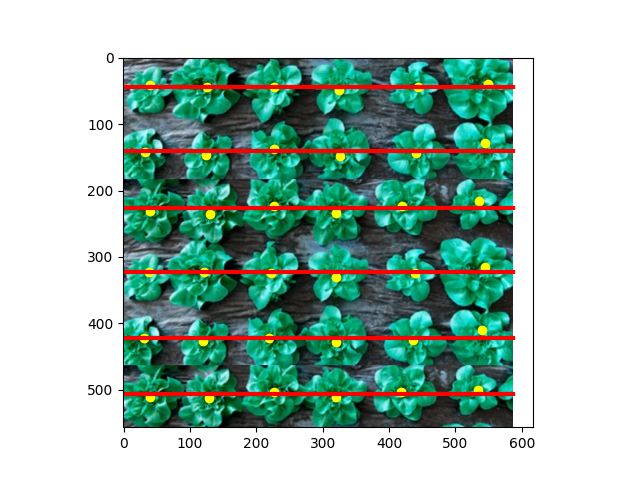
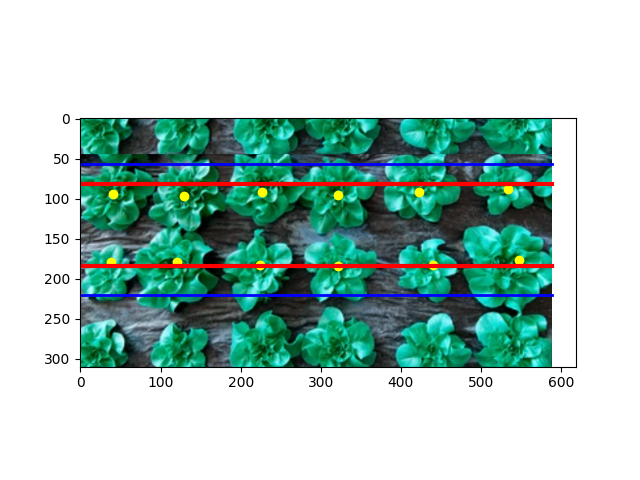
major AI upgrade with signal processing

diff --git a/Edge_Compute/prototype_for_plant_finder.py b/Edge_Compute/prototype_for_plant_finder.py
@@ -1,20 +1,28 @@
 
+from signal import signal
 import time
+import json
+from turtle import distance
 from s_clustering_utils import check_cluster_multitudes,find_elbow,find_centroids,plot_cluster_graph,plot_image_with_centers_lines,find_lines
-from image_utils import detect_edges,edge_image_to_edge_points_np_list
+from image_utils import detect_edges,edge_image_to_edge_points_np_list,detect_thres,detect_cutt_offs
 
-path="Edge_Compute/images/"
-out_path="Edge_Compute/diagnostics/"
-filename='Capture5.png' #set image to test
+path="images/"
+out_path="diagnostics/"
+filename='Capture1.png' #set image to test
 
-def process_image(filename,path,out_path,diagnostics_mode='none'):
+def process_image(filename,path,out_path,config,diagnostics_mode='none'):
+    #print(config)
+    column_multitude=config['columns']
 
     t1=time.time()
+    _,weight_image,_=detect_thres(filename,path,out_path,thres1=145,thres2=255) #takes image and 2 thresholding parameters for the edge filter, gives back the original image and the filtered image as cv2 img objects (basically numpy arrays, original image has color, filtered is B&W (no  rgb))
+    y1,y2,lines_start_end,signal=detect_cutt_offs(weight_image,diagnostics_mode)
     img,edge_image_good,edge_image_simple=detect_edges(filename,path,out_path,thres1=150,thres2=220) #takes image and 2 thresholding parameters for the edge filter, gives back the original image and the filtered image as cv2 img objects (basically numpy arrays, original image has color, filtered is B&W (no  rgb))
+    lines=int(len(lines_start_end)/2)
     t2=time.time()
-    edge_point_list_good=edge_image_to_edge_points_np_list(edge_image_good)
-    edge_point_list_simple=edge_image_to_edge_points_np_list(edge_image_simple) #takes filtered image and returns a list of all the white pixels (so any coordinate where part of an edge is present)
-    test_cases=range(2,40) #set the possible cases for plant multitude (the algorithm will check for each number and find the best match, use as smaller range as possible and preferably weighted to the left to improve performance)
+    edge_point_list_good=edge_image_to_edge_points_np_list(edge_image_good,y1,y2)
+    edge_point_list_simple=edge_image_to_edge_points_np_list(edge_image_simple,y1,y2) #takes filtered image and returns a list of all the white pixels (so any coordinate where part of an edge is present)
+    test_cases=range((lines-1)*column_multitude,(lines+1)*column_multitude) #set the possible cases for plant multitude (the algorithm will check for each number and find the best match, use as smaller range as possible and preferably weighted to the left to improve performance)
     t3=time.time()
     wcss=check_cluster_multitudes(test_cases,edge_point_list_simple) #gets error list from trying all possible test cases
     if diagnostics_mode=='full' or 'elbow' in diagnostics_mode:
@@ -24,11 +32,24 @@ def process_image(filename,path,out_path,diagnostics_mode='none'):
     t5=time.time()
     centers_x,centers_y,centers_ids_for_each_index_of_input_list=find_centroids(edge_point_list_good,n) #gets coordiantes of plant centers after running the algorithm once again for the correct n (could have stored data from the test cases run but one run doesn't cost as much, also this time we use more detail in the execution for optimal results and not just error estimation)
     t6=time.time()
-    test_cases=range(1,14)
-    lines_x,lines_y,labels=find_lines(test_cases,centers_x,centers_y) #lines_x currently returns 0 as it is not needed #labels is the correponding line for each center in input list
+    #test_cases=range(1,6)
+    #lines_x,lines_y,labels=find_lines(test_cases,centers_x,centers_y) #lines_x currently returns 0 as it is not needed #labels is the correponding line for each center in input list
     #print(_)
+    lines_y=[]
+    lines_x=[]
+    labels=[]
+    lines=[]
+    #print(lines_start_end)
+    for x in range(0, len(lines_start_end)-1, 2):
+        lines.append([lines_start_end[x],lines_start_end[x+1]])
+    #print(lines)
+    for i,line in enumerate(lines):
+        lines_y.append((line[0]+line[1])/2)
+        #print(lines_y[-1])
+        labels.append(i)
+
     if diagnostics_mode=='full' or 'final' in diagnostics_mode:
-        plot_image_with_centers_lines(img,path,out_path,centers_x,centers_y,lines_x,lines_y) #show image
+        plot_image_with_centers_lines(img,path,out_path,centers_x,centers_y,lines_x,lines_y,y1,y2) #show image
     if diagnostics_mode=='full' or 'time' in diagnostics_mode:
         print('time for edge filter:              ',t2-t1)
         print('time to find errors for test cases:',t4-t3)
@@ -59,7 +80,12 @@ def process_image(filename,path,out_path,diagnostics_mode='none'):
     for i in range(len(lines_y)):
         clustered_centers[i]=[]
     for i,center in enumerate(centers):
-        clustered_centers[labels[i]].append(list(center))
+        height=center[0]
+        distances=[]
+        for line in lines_y:
+            distances.append(abs(line-height))
+        my_index=distances.index(min(distances))
+        clustered_centers[my_index].append(list(center))
 
 
     #make dict with lines and clusters ordered by line y dimension of line group  type: {123.003 : [[523.02,125.01] , ] ,}
@@ -69,6 +95,7 @@ def process_image(filename,path,out_path,diagnostics_mode='none'):
         for center in clustered_centers[line]:
             heights.append(center[0])
         lines[sum(heights)/len(heights)]=clustered_centers[line] #keep in mind that the average y might slightly differ from what kmeans returned as center
+    print(lines)
 
 
 
@@ -77,5 +104,7 @@ def process_image(filename,path,out_path,diagnostics_mode='none'):
     #print(lines)
 
 
-    return sorted(list(lines.keys())),lines,centroids #returns the sorted y coordinate of lines and the lines and centroids dicts 
-#process_image(filename,path,out_path,"full")
+    return sorted(list(lines.keys())),lines,centroids,signal #returns the sorted y coordinate of lines and the lines and centroids dicts 
+f = open('greenhouse_config.json')
+config_dict = json.load(f)
+#process_image(filename,path,out_path,config_dict,"final")

diff --git a/Edge_Compute/image_utils.py b/Edge_Compute/image_utils.py
@@ -1,11 +1,94 @@
 import cv2
 import numpy as np
+from matplotlib import pyplot as plt
 
-def edge_image_to_edge_points_np_list(edge_image):
+
+def detect_cutt_offs(weight_image,diagnostics_mode):
+    cut_factor=1.05
+    signal=[]
+    for line in weight_image[0:-1]:
+        signal.append(sum(line))
+
+    high_noise_thres=int(40*len(signal)/1000)
+    #print(high_noise_thres)
+    #plt.plot(signal)
+    #plt.title('vertical scan signal')
+    #plt.xlabel('line')
+    #plt.ylabel('intensity')
+    #plt.show()
+
+        ## Compute Fourier Transform
+    n = len(signal)
+    
+    fhat = np.fft.fft(signal, n) #computes the fft
+    
+    #plt.plot(fhat)
+    #plt.title('vertical scan signal FFT')
+    #plt.xlabel('line')
+    #plt.ylabel('intensity')
+    #plt.show()
+
+
+    fhat_clean = []
+    for i,freq in enumerate(fhat):
+        if i<=high_noise_thres:
+            fhat_clean.append(freq)
+        else:
+            fhat_clean.append(0)
+
+
+    signal_filtered = np.fft.ifft(fhat_clean) #inverse fourier transform
+    signal_filtered=abs(signal_filtered)
+    plant_edge=cut_factor*(min(signal_filtered)+max(signal_filtered))/2
+    if "full" in diagnostics_mode or "sig" in diagnostics_mode:
+        plt.plot(signal_filtered)
+        plt.title('vertical scan signal filtered')
+        plt.xlabel('line')
+        plt.ylabel('intensity')
+        p1 = [0, len(signal_filtered)]
+        p2 = [max(signal_filtered),max(signal_filtered)]
+        plt.plot(p1, p2, color="red", linewidth=3)
+        p1 = [0, len(signal_filtered)]
+        p2 = [min(signal_filtered),min(signal_filtered)]
+        plt.plot(p1, p2, color="red", linewidth=3)
+        p1 = [0, len(signal_filtered)]
+        p2 = [plant_edge,plant_edge]
+        plt.plot(p1, p2, color="red", linewidth=3)
+        plt.show()
+        #plt.wa
+        
+    
+    norm=np.array(signal_filtered)
+    norm.fill(plant_edge)
+    normalized_signal=np.array(signal_filtered)-norm
+    #plt.plot(normalized_signal)
+    #plt.title('vertical scan signal filtered and normalized')
+    #plt.xlabel('line')
+    #plt.ylabel('intensity')
+    #plt.show()
+
+    #existance=np.sign(normalized_signal)
+    zero_crossings = list(np.where(np.diff(np.sign(normalized_signal)))[0])
+    diffs=np.diff(normalized_signal)
+    #print(zero_crossings)
+    if diffs[zero_crossings[0]]>0:
+        pass
+    else:
+        zero_crossings=zero_crossings[1:]
+    if diffs[zero_crossings[-1]]<0:
+        pass 
+    else:
+        zero_crossings=zero_crossings[:-1]
+        
+    y1=zero_crossings[0]
+    y2=zero_crossings[-1]
+    return y1,y2,zero_crossings,signal_filtered
+
+def edge_image_to_edge_points_np_list(edge_image,y1,y2):
     edge_point_list=[]
     for i,row in enumerate(edge_image):
         for j,cell in enumerate(row):
-            if int(cell)>=128:
+            if int(cell)>=128 and i>=y1 and i<=y2:
                 edge_point_list.append([i,j])
 
     edge_point_list=np.array(edge_point_list)
@@ -33,10 +116,35 @@ def detect_edges(filename,path,out_path, thres1=150,thres2=220):
     cv2.destroyAllWindows() 
     return img,edge_image,edge_image_simple
 
+
+def detect_thres(filename,path,out_path, thres1=175,thres2=255): 
+    # Read the original image
+    img = cv2.imread(path+filename) 
+    
+    image_g = img[:,:,1]  #take green
+    image_b = img[:,:,0] #take blue
+    image_r = img[:,:,2] #take red
+    image_r.fill(0)
+    image=cv2.merge((image_r,image_g,image_b))
+    #print(image)
+    
+    ret,image = cv2.threshold(img,thres1,thres2,cv2.THRESH_BINARY)
+    image = cv2.cvtColor(image, cv2.COLOR_BGR2GRAY) #do grayscale
+    
+
+    #experiment
+    image_simple=simplify_image(image)
+    #img=simplify_image(img)
+    # Save filtered result
+    cv2.imwrite(out_path+'thresholding_result.png', image)
+    cv2.destroyAllWindows() 
+    return img,image,image_simple
+
 def simplify_image(input_image):
-    standard_length=450 #increase if results not right amount of plants, decrease for performance
+    standard_length=589 #increase if results not right amount of plants, decrease for performance
     dimensions = input_image.shape
     #print(dimensions)
     ratio=dimensions[0]/dimensions[1]
     
-    return cv2.resize(input_image, dsize=(standard_length,int(ratio*standard_length)), interpolation=cv2.INTER_CUBIC)
+    #return cv2.resize(input_image, dsize=(standard_length,int(ratio*standard_length)), interpolation=cv2.INTER_CUBIC) ignore untill fix y1,y2 discrepency when dimensions change
+    return input_image

diff --git a/Edge_Compute/s_clustering_utils.py b/Edge_Compute/s_clustering_utils.py
@@ -8,7 +8,7 @@ def check_cluster_multitudes(test_cases,edge_point_list):
     #print(edge_point_list)
     wcss = []
     for i in test_cases:
-        kmeans = KMeans(n_clusters=i, init='k-means++', max_iter=60, n_init=6, random_state=0)  #increase max_iter and n_init for more accurate error results for elbow graph and elbow finding, decrease for faster 'find errors for test cases' time
+        kmeans = KMeans(n_clusters=i, init='k-means++', max_iter=70, n_init=4, random_state=0)  #increase max_iter and n_init for more accurate error results for elbow graph and elbow finding, decrease for faster 'find errors for test cases' time
         #print(edge_point_list)
         kmeans.fit(edge_point_list)
         wcss.append(kmeans.inertia_)
@@ -34,7 +34,7 @@ def find_elbow(wcss,test_cases):
     return n
 
 def find_centroids(edge_point_list,n):
-    kmeans = KMeans(n_clusters=n, init='k-means++', max_iter=80, n_init=6, random_state=0) #increase max_iter and n_init for better clustering , decrease for faster 'find final centroids' time
+    kmeans = KMeans(n_clusters=n, init='k-means++', max_iter=90, n_init=6, random_state=0) #increase max_iter and n_init for better clustering , decrease for faster 'find final centroids' time
     kmeans.fit(edge_point_list)
     #print(kmeans.cluster_centers_)
 
@@ -47,7 +47,7 @@ def find_centroids(edge_point_list,n):
     return centers_x,centers_y,labels
 
 
-def plot_image_with_centers_lines(img,path,out_path,centers_x,centers_y,_,lines_y):
+def plot_image_with_centers_lines(img,path,out_path,centers_x,centers_y,_,lines_y,y1,y2):
     image_x_length=img.shape[1]
     plt.imshow(img)
     plt.plot(centers_x,centers_y,'o',color='yellow')
@@ -56,7 +56,12 @@ def plot_image_with_centers_lines(img,path,out_path,centers_x,centers_y,_,lines_
         p2 = [line, line]
         plt.plot(p1, p2, color="red", linewidth=3)
 
- 
+    p1 = [0, image_x_length]
+    p2 = [y1, y1]
+    plt.plot(p1, p2, color="blue", linewidth=2)
+    p1 = [0, image_x_length]
+    p2 = [y2, y2]
+    plt.plot(p1, p2, color="blue", linewidth=2)
     plt.savefig(out_path+'original image with centroids drawn.png')
     plt.show()
 

diff --git a/Edge_Compute/robot_move.py b/Edge_Compute/robot_move.py
@@ -1,25 +1,40 @@
 from prototype_for_plant_finder import process_image #process_image takes the path where take_photo stores and the current photo filaname and returns
 # a list of th y dimension pixel height where lines occur and also centers_x and centers_y which are the x,y coordinates for each plant
 from simulation import Simulation
+from mapper import figure_out_position
 
-sim=Simulation(view="images\Capture4.png",camera_dimensions=[589,290])
-path="Edge_Compute/images/"
-out_path="Edge_Compute/diagnostics/"
-filename='Capture1.png' #set image to test
-default_distance=50
+sim=Simulation(view="images\Capture4.png",camera_dimensions=[589,310])
+path="images/"
+out_path="diagnostics/"
+
+default_distance=30
 #first shoot
 start=0
 end=0
 dx=default_distance
 lines_multitude=[0]
 step=0
+
 while True:
 
     step=step+1
     print(step)
     sim.make_move(dx)
     path,filename=sim.take_photo()
-    lines_y,lines,centroids=process_image(filename,path,out_path,diagnostics_mode='time+final')
+    signal_history_file=open("sig.txt",'r',encoding='utf-8')
+    signal_history=signal_history_file.read()
+    signal_history=signal_history.split('\n')
+    signal_history=list(map(int,signal_history))
+    signal_history_file.close()
+    lines_y,lines,centroids,signal=process_image(filename,path,out_path,sim.config,diagnostics_mode='time+final+sig')
+    if step==1:
+        signal_history_file=open('sig.txt','a',encoding='utf-8')
+        position=0
+        for intensity in signal:
+            signal_history_file.write(intensity)
+    else:
+        position,total_signal=figure_out_position(signal_history,signal,y1,y2)
+
     if len(lines_y)==0:
         print('no plants, i finished') #this wouldn't happen we need an error handler in image_process to return 0 y_lines if no plants
         break

diff --git a/Edge_Compute/simulation.py b/Edge_Compute/simulation.py
@@ -2,7 +2,9 @@
 import random
 import cv2
 import time
+import json
 
+random.seed(0)
 
 class Simulation:
     def __init__(self,view,camera_dimensions):
@@ -11,8 +13,10 @@ class Simulation:
         self.pos=0
         self.cam_width=camera_dimensions[0]
         self.cam_height=camera_dimensions[1]
-        self.motor_tolerance=0.1
+        self.motor_tolerance=0.2
         self.cropped_image='no image yet'
+        f = open('greenhouse_config.json')
+        self.config = json.load(f)
         
 
     def make_move(self,dx):
@@ -29,13 +33,13 @@ class Simulation:
         #print(cropped_image)
         
         
-        return "Edge_Compute/images/","temp_img_taken.png"
+        return "images/","temp_img_taken.png"
 
 
 
 
-sim=Simulation(view="images/Capture4.png",camera_dimensions=[589,290])
+#sim=Simulation(view="images/Capture4.png",camera_dimensions=[589,290])
 #sim.make_move(50)
-while(sim.pos<1120-sim.cam_height):
-    sim.take_photo()
-    sim.make_move(50)
+#while(sim.pos<1120-sim.cam_height):
+    #sim.take_photo()
+    #sim.make_move(50)

diff --git a/Edge_Compute/mapper.py b/Edge_Compute/mapper.py
@@ -1,0 +1,5 @@
+
+def figure_out_position(signal_history,signal,y1,y2):
+    position=0
+    total_signal=[]
+    return position,total_signal
